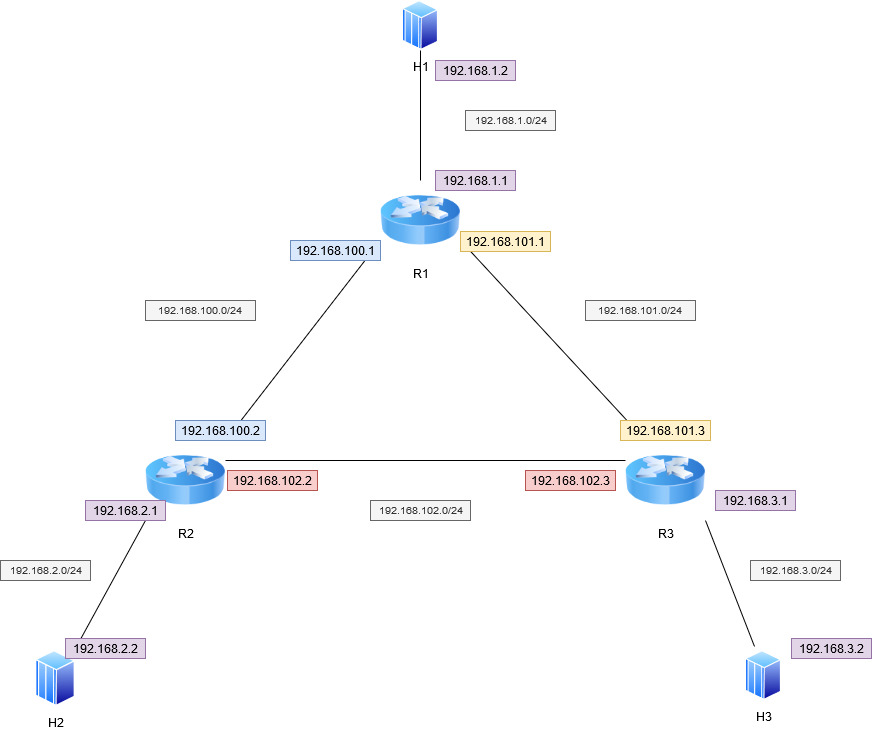
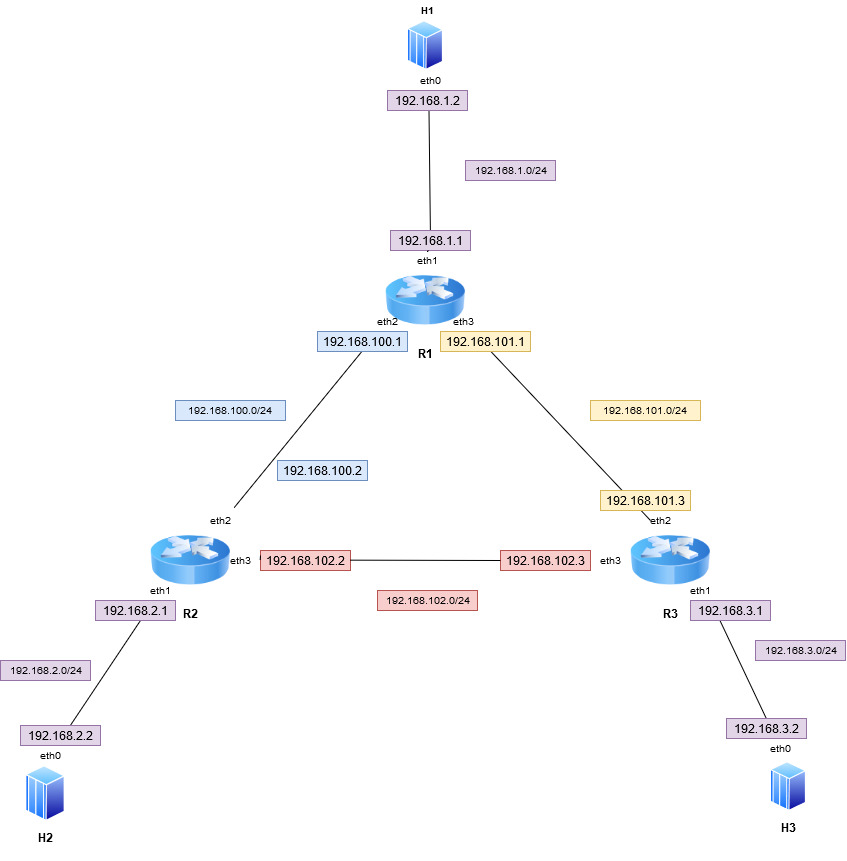
static route

diff --git a/staticRouting/topology.py b/staticRouting/topology.py
@@ -45,14 +45,12 @@ class DemoTopo(Topo):
                           mac='00:00:00:00:00:03')
 
         self.addLink(s1, h1)
-        self.addLink(s1, s2)
-        self.addLink(s1, s3)
-
         self.addLink(s2, h2)
-        self.addLink(s2, s3)
-        
         self.addLink(s3, h3)
 
+        self.addLink(s1, s2)
+        self.addLink(s1, s3)
+        self.addLink(s2, s3)
 
 def main():
     topo = DemoTopo(args.behavioral_exe,
@@ -68,21 +66,17 @@ def main():
     s1 = net.get('s1')
     s1.setIP('192.168.1.1/24', intf = 's1-eth1')
     s1.setMAC('00:00:00:00:01:01', intf = 's1-eth1')
-
-    s1.setIP('192.168.100.1/24', intf = 's1-eth2')
+    s1.setIP('192.168.101.1/24', intf = 's1-eth2')
     s1.setMAC('00:00:00:00:01:02', intf='s1-eth2')
-
-    s1.setIP('192.168.101.1/24', intf = 's1-eth3')
+    s1.setIP('192.168.100.1/24', intf = 's1-eth3')
     s1.setMAC('00:00:00:00:01:03', intf='s1-eth3')
 
 #switch 2 configuration
     s2 = net.get('s2')
     s2.setIP('192.168.2.1/24', intf = 's2-eth1')
     s2.setMAC('00:00:00:00:02:01', intf='s2-eth1')
-
     s2.setIP('192.168.100.2/24', intf = 's2-eth2')
     s2.setMAC('00:00:00:00:02:02', intf='s2-eth2')
-
     s2.setIP('192.168.102.2/24', intf = 's2-eth3')
     s2.setMAC('00:00:00:00:02:03', intf='s2-eth3')
 
@@ -90,21 +84,25 @@ def main():
     s3 = net.get('s3')
     s3.setIP('192.168.3.1/24', intf='s3-eth1')
     s3.setMAC('00:00:00:00:03:01', intf='s3-eth1')
-
-    s3.setIP('192.168.101.3/24', intf='s3-eth2')
+    s3.setIP('192.168.102.3', intf='s3-eth2')
     s3.setMAC('00:00:00:00:03:02', intf='s3-eth2')
-
-    s3.setIP('192.168.102.3/24', intf='s3-eth3')
+    s3.setIP('192.168.101.3/24', intf='s3-eth3')
     s3.setMAC('00:00:00:00:03:03', intf='s3-eth3')
 
     h1 = net.get('h1')
-    h1.setDefaultRoute("dev eth0 via 192.168.1.1")
+    # h1.setDefaultRoute(intf='h1-eth1')
+    # h1.setDefaultRoute("dev eth0 via 192.168.1.1")
+    h1.setDefaultRoute("dev h1-eth0 via 192.168.1.1")
 
     h2 = net.get('h2')
-    h2.setDefaultRoute("dev eth0 via 192.168.2.1")
+    # #h2.setDefaultRoute(intf='h2-eth1')
+    # #h2.setDefaultRoute("dev eth0 via 192.168.2.1")
+    h2.setDefaultRoute("dev h2-eth0 via 192.168.2.1")
 
     h3 = net.get('h3')
-    h3.setDefaultRoute("dev eth0 via 192.168.3.1")
+    # #h3.setDefaultRoute(intf='h3-eth1')
+    # #h3.setDefaultRoute("dev eth0 via 192.168.3.1")
+    h3.setDefaultRoute("dev h3-eth0 via 192.168.3.1")
 
     print "Ready !"
 
